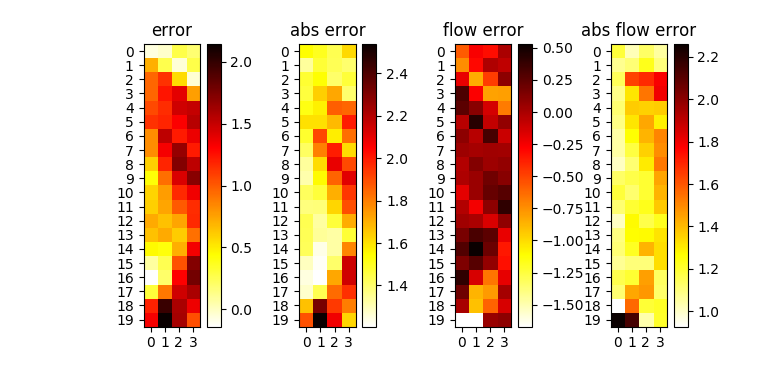
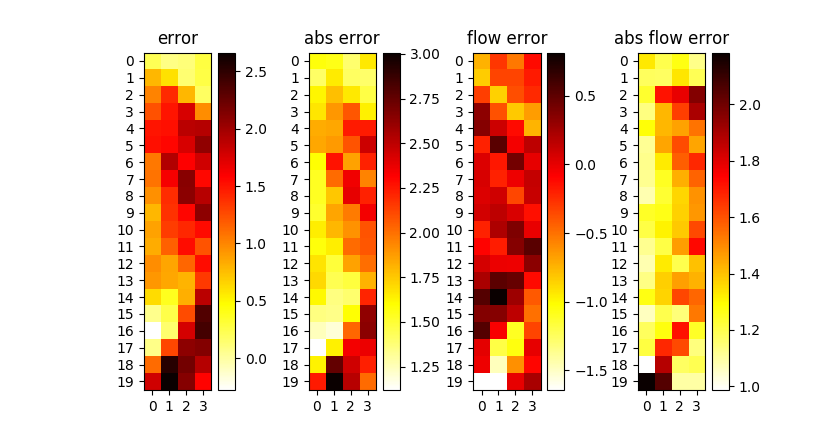
修改了损失函数部分的代码，以便以后实验

Changed region(s): [[0.1247, 0.0599, 0.9351, 0.9591]]

diff --git a/src/train.py b/src/train.py
@@ -30,8 +30,8 @@ def main():
     parser.add_argument('--hidden_size', type=int, default=64)
     parser.add_argument('--lane_gate_size', type=int, default=4)
     parser.add_argument('--output_hidden_size', type=int, default=16)
-    parser.add_argument('--t_predict', type=int, default=20)
-    parser.add_argument('--temporal_length', type=int, default=24)
+    parser.add_argument('--t_predict', type=int, default=4)
+    parser.add_argument('--temporal_length', type=int, default=8)
     parser.add_argument('--spatial_length', type=int, default=5)
 
     # 训练参数
@@ -86,20 +86,20 @@ def train(args):
         # 初始化模型对象
         net = TP_lstm(args)
         
-        # 初始化不同的损失指标
-        flow_criterion = loss_function()
-        mes_criterion = torch.nn.MSELoss()
+        # 初始化损失函数
+        criterion = loss_function()
         
         # 学习率的设置
         learing_rate = args.learing_rate
         
         if args.use_cuda:
             net = net.cuda()
-            flow_criterion = flow_criterion.cuda()
-            mes_criterion = mes_criterion.cuda()
+            criterion = criterion.cuda()
         
         # 初始化优化器
         optimizer = torch.optim.Adagrad(net.parameters(), weight_decay=args.lambda_param)
+        #optimizer = torch.optim.Adam(net.parameters(), weight_decay=args.lambda_param)
+        #optimizer = torch.optim.RMSprop(net.parameters(), lr=args.decay_rate)
         
         # 训练过程中衡量的损失
         loss_meter = meter.AverageValueMeter()
@@ -141,6 +141,7 @@ def train(args):
                 data = Variable(torch.Tensor(data_generator.CurrentSequences))
                 laneT = Variable(torch.Tensor(data_generator.CurrentLane))
                 target = Variable(torch.Tensor(data_generator.CurrentOutputs))
+                spatial_size = data.shape[1]
 
                 #t4 = time.time()
                 if args.use_cuda:
@@ -155,11 +156,14 @@ def train(args):
                 number_before = data[:, :, args.t_predict:, 2]
                 number_current = target[:, :, :, 2]
                 In = data[:, 0, args.t_predict:, 1].view(-1, 1, predict_preiod)
+                inflow = torch.cat((In, output[:, :spatial_size-1,:]), 1)
+                number_caculate = number_before + inflow - output
                 
                 #t7 = time.time()
-                flow_loss = flow_criterion(number_current, number_before, In, output)
-                mes_loss = mes_criterion(target[:, :, :, 0], output)
-                loss = args.flow_loss_weight * flow_loss + mes_loss
+                
+                flow_loss = criterion(number_current, number_caculate)
+                mes_loss = criterion(target[:, :, :, 0], output)
+                loss = args.flow_loss_weight * flow_loss + (2 - args.flow_loss_weight) * mes_loss
 
                 #t8 = time.time()
                 loss.backward()
@@ -215,13 +219,18 @@ def train(args):
                     target = target.cuda()
 
                 output = net.infer(temporal_data, init_data, laneT)
+                
                 number_current = target[:, :, :, 2]
                 number_before = data[:, :, args.t_predict:, 2]
                 In = data[:, 0, args.t_predict:, 1].view(-1, 1, predict_preiod)
-                flow_loss = flow_criterion(number_current, number_before, In, output)
-                mes_loss = mes_criterion(target[:, :, :, 0], output)
-                last_frame_loss = mes_criterion(target[:, :, -1, 0], output[:, :, -1])
-                last_frame_flow_loss = flow_criterion(number_before[:, :, -1].unsqueeze(2), number_current[:, :, -1].unsqueeze(2), In[:, :, -1].unsqueeze(1), output[:, :, -1].unsqueeze(2))
+                inflow = torch.cat((In, output[:, :spatial_size-1,:]), 1)
+                number_caculate = number_before + inflow - output
+
+                flow_loss = criterion(number_current, number_caculate)
+                mes_loss = criterion(target[:, :, :, 0], output)
+                last_frame_loss = criterion(target[:, :, -1, 0], output[:, :, -1])
+                last_frame_flow_loss = criterion(number_before[:, :, -1], number_caculate[:, :, -1])
+                
                 loss_meter.add(mes_loss.item())
                 flow_loss_meter.add(flow_loss.item())
                 last_loss_meter.add(last_frame_loss.item())

diff --git a/src/model.py b/src/model.py
@@ -257,40 +257,15 @@ class TP_lstm(nn.Module):
 
 class loss_function(nn.Module):
 
-    def __init__(self):
-
-        super(loss_function, self).__init__()
-
-        self.mes_criterion = nn.MSELoss()
-
-    def forward(self, number_current, number_before, In, outflow):
-
-        [batch_size, spatial_size, temporal_size] = number_current.shape
-
-        inflow = torch.cat((In, outflow[:, :spatial_size-1,:]), 1)
-        number_caculate = number_before + inflow - outflow
-
-        loss = self.mes_criterion(number_current, number_caculate)
-
-        return loss
-        
-class f_loss_function(nn.Module):
-
-    def __init__(self, flow_loss_weight=1, epslion=0.05, alpha=0.8):
+    def __init__(self, epsilon=0.003):
 
         super().__init__()
 
-        self.epslion = epslion
-        self.flow_loss_weight = flow_loss_weight
+        self.criterion = nn.MSELoss()
+        #self.criterion = nn.SmoothL1Loss()
 
-        self.mes_criterion = nn.MSELoss()
-        self.flow_criterion = flow_loss_function()
+    def forward(self, target, output):
 
-    def forward(self, target, output, data):
+        loss = self.criterion(target, output)
 
-        number_before = data[:, :, args.t_predict:, 2]
-        number_current = target[:, :, :, 2]
-        In = data[:, 0, args.t_predict:, 1].view(-1, 1, predict_preiod)
-
-        mes_loss = self.mes_criterion(target, output)
-        flow_loss = self.flow_loss_function(number_current, number_before, In, output)
+        return loss

diff --git a/src/draft.py b/src/draft.py
@@ -52,7 +52,7 @@ parser.add_argument('--green_pass', type=int, default=52)
 parser.add_argument('--yellow_pass', type=int, default=55)
 
 # 模型相关
-parser.add_argument('--model_prefix', type=str, default='new_data_base')
+parser.add_argument('--model_prefix', type=str, default='new_data_new_time')
 parser.add_argument('--use_epoch', type=int, default=49)
 parser.add_argument('--test_batchs', type=int, default=500)
 
@@ -72,7 +72,7 @@ checkpoint = torch.load(file)
 argsfile = open(os.path.join(load_directory, 'config.pkl'), 'rb')
 args = pickle.load(argsfile)
 
-dg = batchGenerator(["300", "800", "1000"], args)
+dg = batchGenerator(["500", "1000", "2000"], args)
 dg.generateBatchRandomForBucket()
 
 model = TP_lstm(args)
@@ -108,12 +108,10 @@ for i in range(test_batchs):
 
 for i in range(13):
     print("target {}, median value: {:.3f}, mean value: {:.3f}, std: {:.3f}".format(i, np.median(number[i]), np.mean(number[i]), np.std(number[i])))
-'''
+
 x = np.array(range(13))
-y = np.array([number0, number1, number2, number3, number4, number5,
-             number6, number7, number8, number9, number10, number11, number12])
+y = np.array(number)
 plt.figure()
 plt.title('输入输出分布', fontproperties='SimHei')
 plt.boxplot(y, labels=x)
 plt.show()
-'''

diff --git a/src/test.py b/src/test.py
@@ -30,8 +30,8 @@ def main():
     parser = argparse.ArgumentParser()
 
     # 模型相关
-    parser.add_argument('--model_prefix', type=str, default='new_data_base')
-    parser.add_argument('--use_epoch', type=int, default=49)
+    parser.add_argument('--model_prefix', type=str, default='flow_loss_0')
+    parser.add_argument('--use_epoch', type=int, default=9)
 
     # 测试相关
     parser.add_argument('--test_batchs', type=int, default=100)

diff --git a/src/conf.py b/src/conf.py
@@ -49,7 +49,7 @@ args = {}
 args["modelFilePrefix"] = "7-26"
 args["prefix"] = ["300", "400", "500", "600", "700", "800", "900", "1000", "1100", "1200", "1300", 
                 "1400", "1500"]
-args["test_prefix"] = ['700']
+args["test_prefix"] = ['500']
 args["testFilePrefix"] = ["300_1", "400_1", "500_1", "600_1", "700_1", "800_1", "900_1", "1000_1",
                  "1100_1", "1200_1", "1300_1", "1400_1", "1500_1"]
 

diff --git a/dairy.md b/dairy.md
@@ -173,3 +173,23 @@
 > > ![new data 400](dataFile/pics/new_data_400_ni.png)
 > > ![new data 500](dataFile/pics/new_data_500_ni.png)
 > > ![new data 700](dataFile/pics/new_data_700_ni.png)
+
+> ## 8-27
+> * 昨天调整了一下数据生成的时间，目前的效果已经好了很多，但是还是有整体偏小的问题，导致整体的准确率还是不太高：
+> > ![new time 500](dataFile/pics/new_time_500_ni.png)
+> > ![new time 1000](dataFile/pics/new_time_1000_ni.png)
+> > ![new time 2000](dataFile/pics/new_time_2000_ni.png)
+> * 今天试验几个不同的训练方式：
+> > * 降低flow_loss直到0
+> > * 增加额外一项专门检验最后一个bucket误差的损失项
+> > * 损失函数不采用mes采用mape
+> > * 更换优化器
+> * 好多人用显卡……好慢
+> * 16:05 正在训练flow_loss_weight降低的模型，感觉flow_loss_weight会让训练的结果变差？？这个有点迷，另外还是小batch可以取得明显好的效果……不知道为什么
+
+> ## 8-28
+> 哎……今天半价烧烤吃不到了
+> * 昨天训练的把flow降到0的模型整体上的测试误差减少了，但是forward的误差增大了一些，无可避免的flow loss比之前差了一些，看来之前的损失函数有问题，现在的想法是这样，目前整体上在损失函数上动一下手脚，多试几种损失函数看一看是不是会好一些
+> > ![flow loss 0 500](dataFile/pics/flow_loss_0_500_ni.png)
+> > ![flow loss 0 1000](dataFile/pics/flow_loss_0_1000_ni.png)
+> > ![flow loss 0 2000](dataFile/pics/flow_loss_0_2000_ni.png)
